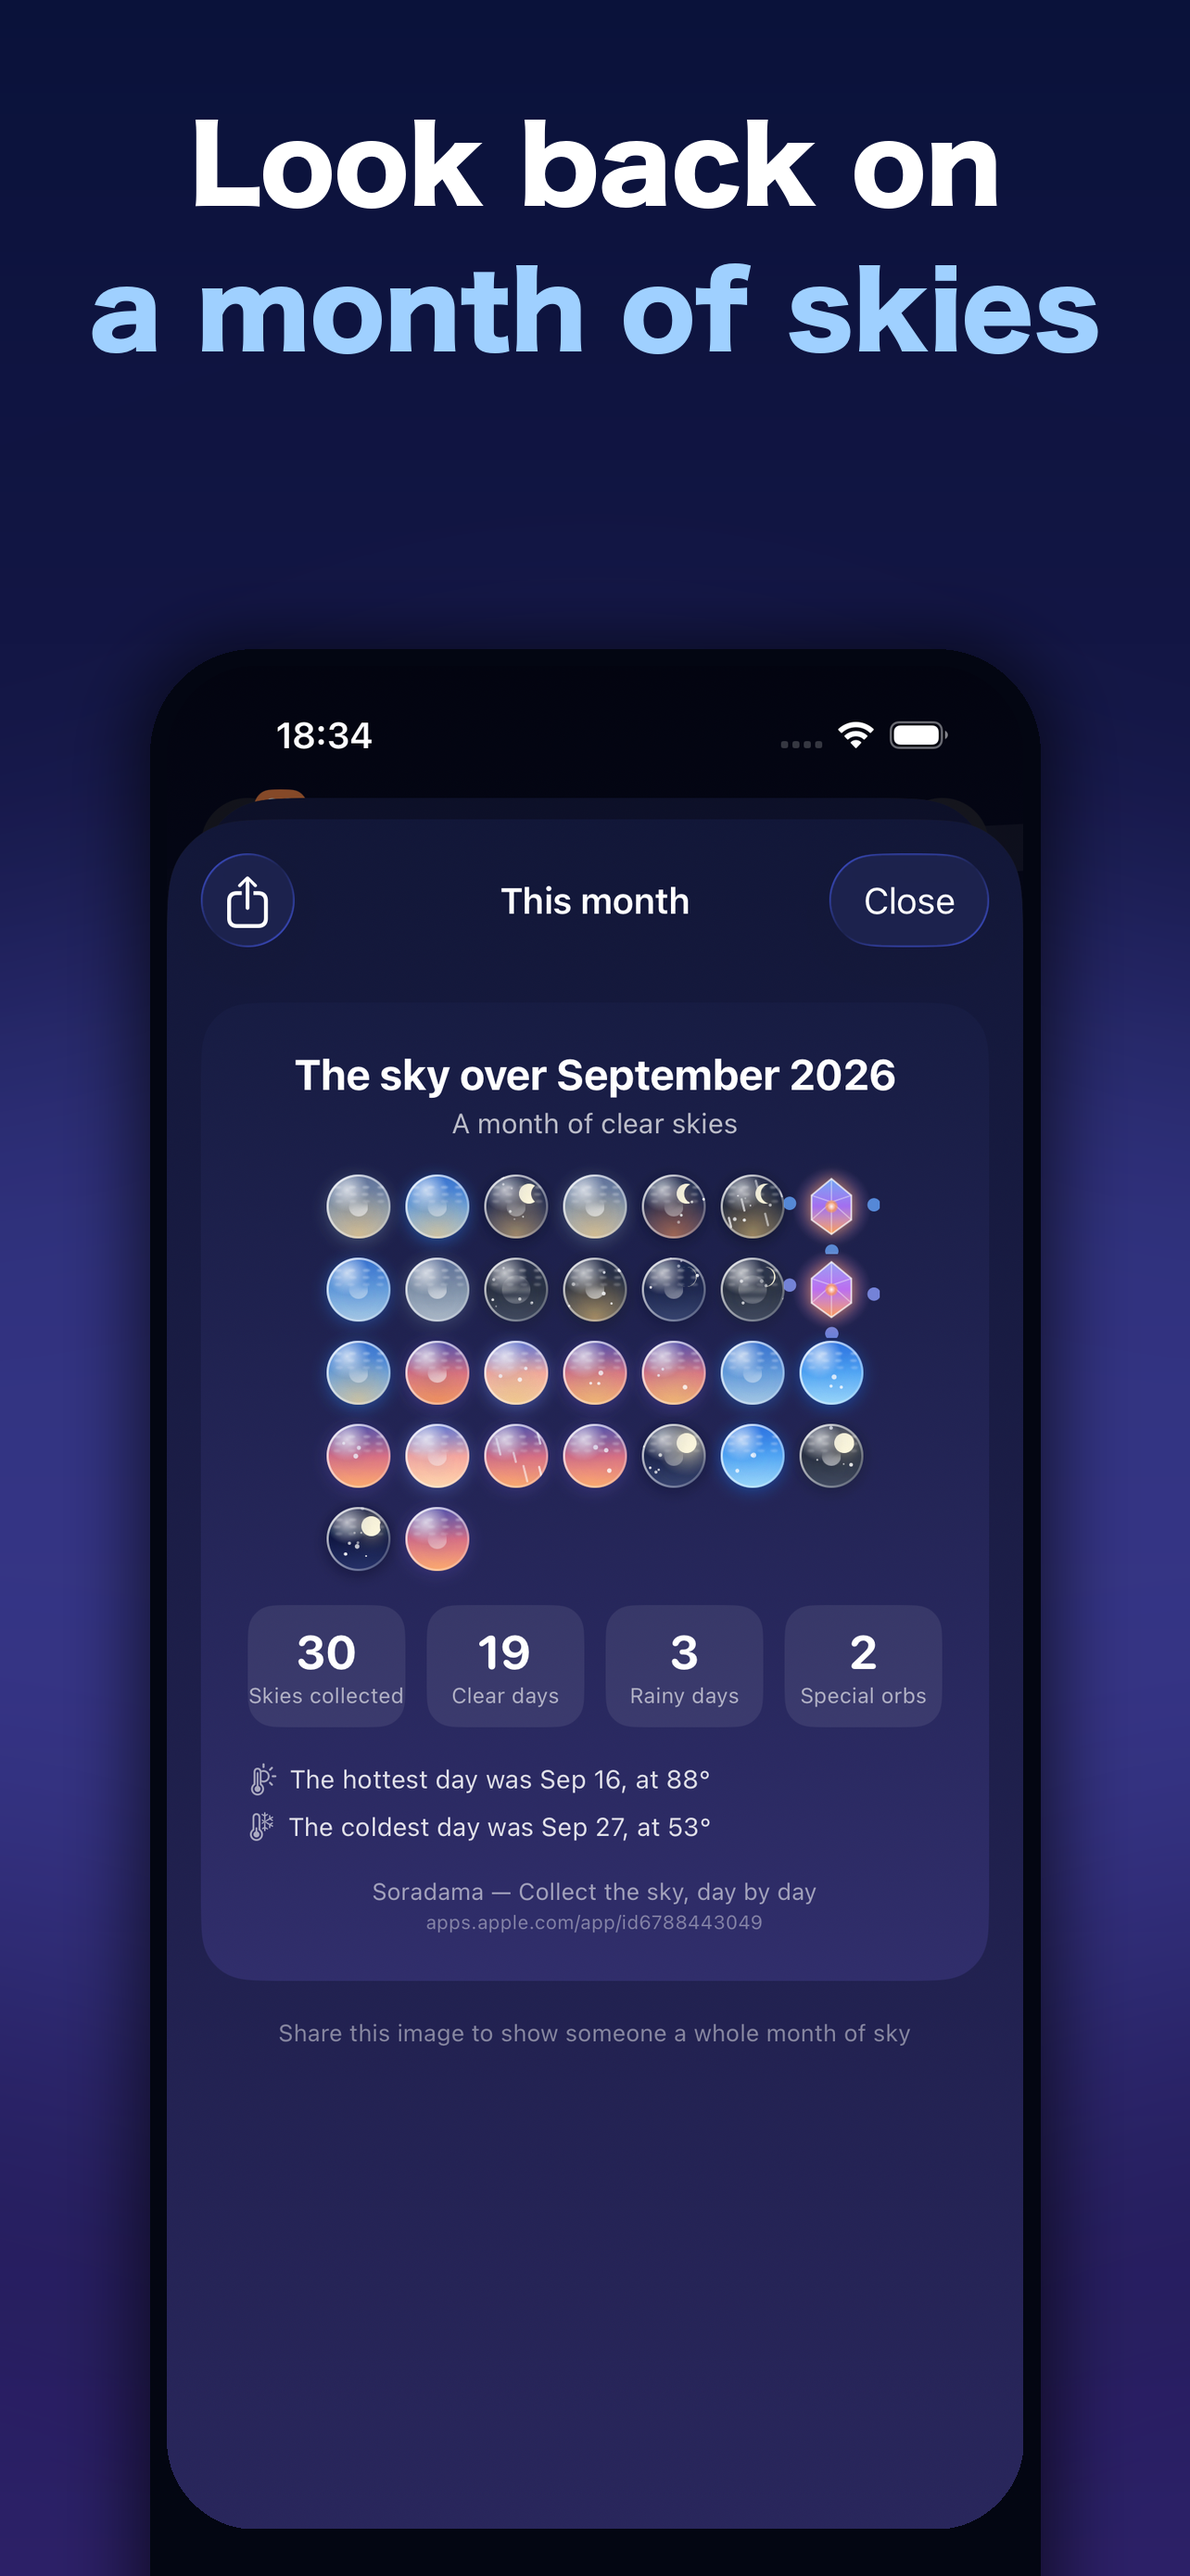
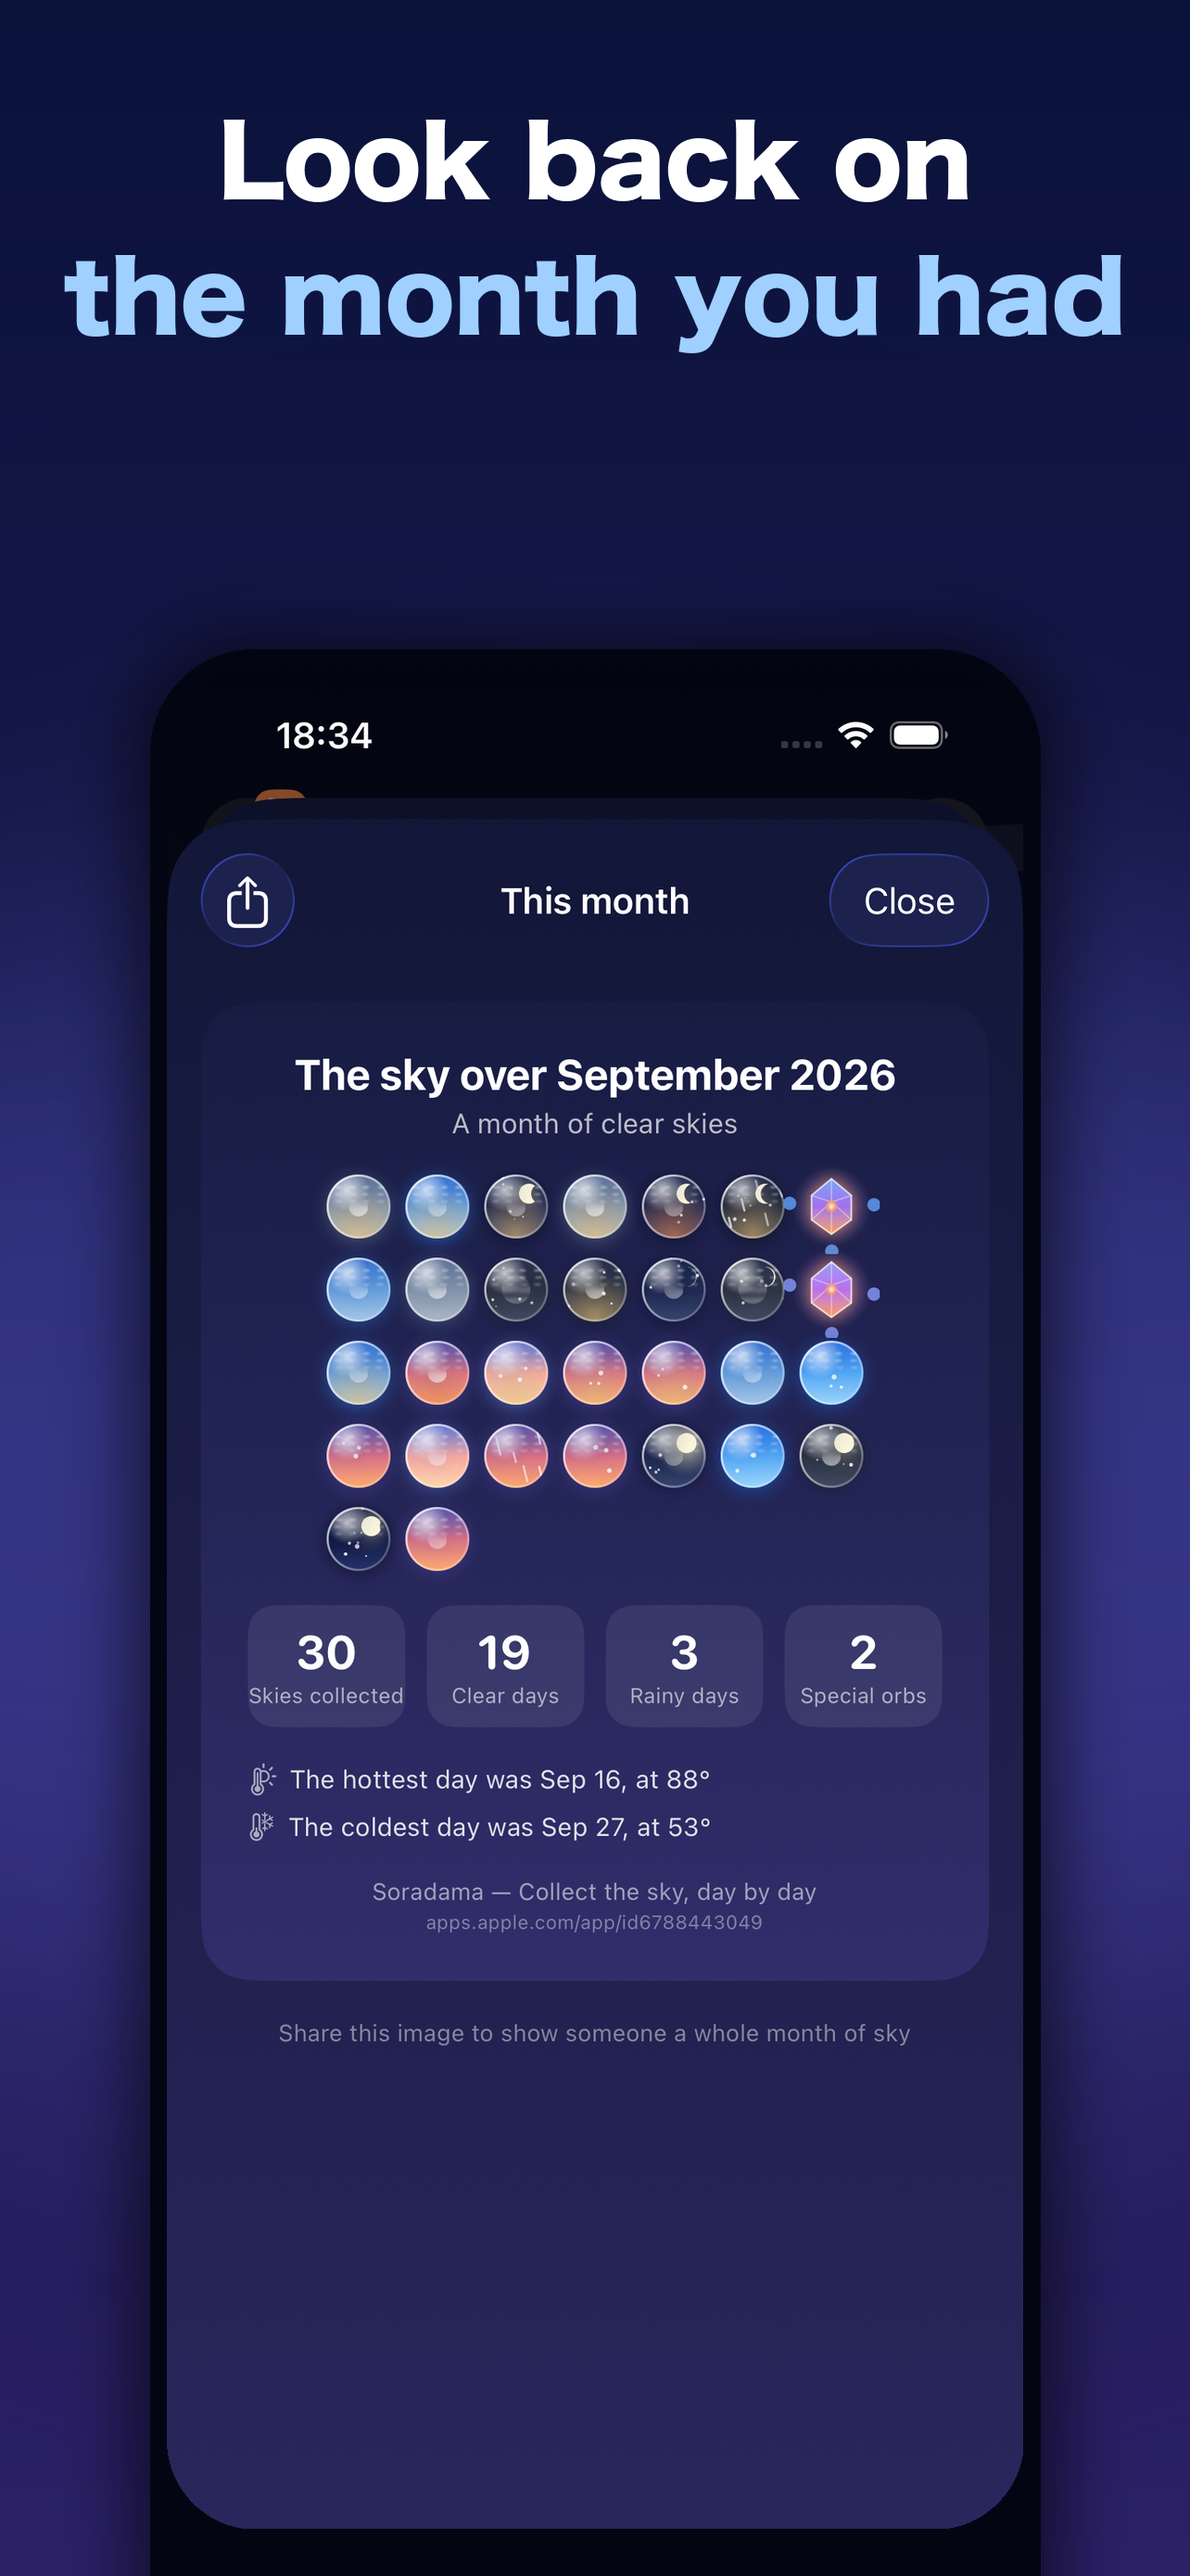
feat: rewrite App Store screenshot headlines in a plainer voice

Changed region(s): [[0.0623, 0.031, 0.9657, 0.1548]]

diff --git a/scripts/compose_store_screenshots_v2.py b/scripts/compose_store_screenshots_v2.py
@@ -29,20 +29,20 @@ LEGACY_INNER_SIZE = (890, 1925)
 
 COPY = {
     "ja": {
-        "hero": ("毎日の空が", "ガラス玉になる"),
-        "hero_caption": "天気予報アプリ「空玉」",
-        "collection": ("集めた空が", "カレンダーに並ぶ"),
-        "home": ("天気予報も", "ひと目でわかる"),
-        "month": ("ひと月の空を", "1枚で振り返る"),
-        "widget": ("ホーム画面に", "空玉を飾る"),
-        "radar": ("雨雲の動きを", "地図で確認"),
+        "hero": ("その日の空が", "ころんと玉になる"),
+        "hero_caption": "空を集める天気アプリ「空玉」",
+        "collection": ("ひと月つづけると", "こんなカレンダーに"),
+        "home": ("傘いる？いらない？", "開いてすぐわかる"),
+        "month": ("月末には", "ひと月の空をふりかえり"),
+        "widget": ("ホーム画面に", "今日の空玉を置いておく"),
+        "radar": ("雨雲が近づいたら", "地図でたしかめる"),
     },
     "en": {
-        "hero": ("Every day's sky", "becomes a glass orb"),
-        "hero_caption": "Soradama — a weather app",
-        "collection": ("Your skies,", "collected by day"),
-        "home": ("Clear forecasts,", "at a glance"),
-        "month": ("Look back on", "a month of skies"),
+        "hero": ("Today's sky,", "in a little glass orb"),
+        "hero_caption": "Soradama — collect your skies",
+        "collection": ("A month of days,", "one orb at a time"),
+        "home": ("Need an umbrella?", "Know in a second"),
+        "month": ("Look back on", "the month you had"),
     },
 }
 
@@ -112,6 +112,8 @@ def hero(orbs: Path, copy: dict, output: Path) -> None:
     face = font(60)
     text = copy["hero_caption"]
     box = draw.textbbox((0, 0), text, font=face)
+    if box[2] - box[0] > CANVAS[0] - 96:
+        raise ValueError(f"下の一文が横に収まらない: {text}")
     draw.text(((CANVAS[0] - (box[2] - box[0])) / 2, 2620), text, font=face, fill=(255, 255, 255, 200))
     canvas.convert("RGB").save(output, format="PNG", optimize=True)
 
